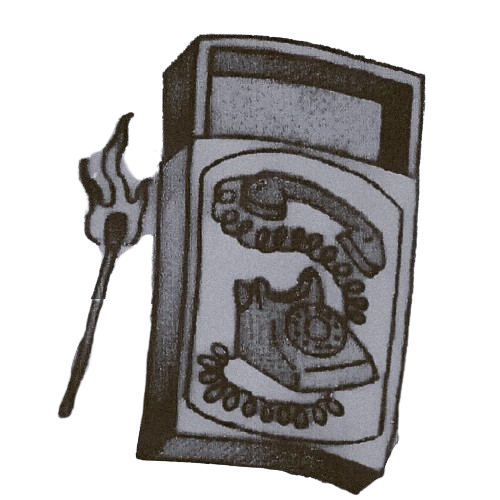
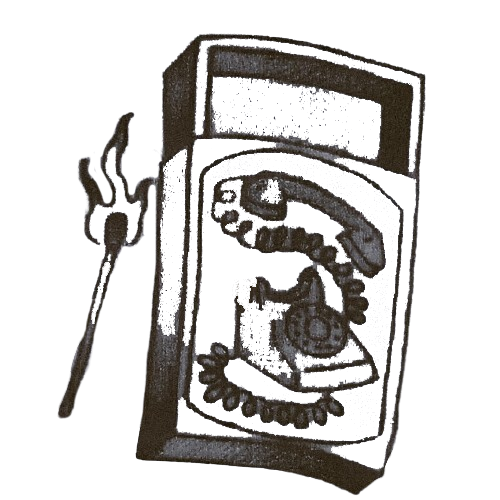
PP looks better on mobile. New inverted tattoo image

Changed region(s): [[0.18, 0.06, 0.84, 0.96], [0.63, 0.96, 0.66, 0.99], [0.57, 0.93, 0.6, 0.96]]

diff --git a/index.html b/index.html
@@ -42,7 +42,7 @@
                         <a href="#" target="_blank">Music</a>
                         <a href="#" target="_blank">Video</a>
                         <a href="javascript:;" onclick="togglePopup('fanclub-signup');" class="fanclub-button">
-                            <img class="lunatics" src="/images/fan-club.png" alt="Fan Club">
+                            <img class="lunatics fan-club" src="/images/fan-club.png" alt="Fan Club">
                         </a>
                     </div>
                 </nav>
@@ -77,7 +77,7 @@
             <div class="frame">
                 <form id="mc-embedded-subscribe-form" class="validate"
                     action="https://rareroomeast.us9.list-manage.com/subscribe/post-json?u=dc1ef2b26411dc4872ade1a16&amp;id=12eb6d76fb&amp;f_id=00f951e1f0">
-                    <img src="/images/fan-club.png" alt="Fan Club">
+                    <img src="/images/fan-club.png" alt="Fan Club" class='fan-club'>
                     <h2>Sign Up</h2>
                     <div class="form-group">
                         <label for="field_email_address" class="sr-only">Email Address</label>
@@ -118,6 +118,15 @@
                     </div>
                     <button type="submit" id="submit" name="subscribe" class="btn btn-default">SUBMIT</button>
                 </form>
+                <p id="mailchimp-logo" style="margin: 0px auto;">
+                    <a href="http://eepurl.com/jgy2Rs" title="Mailchimp - email marketing made easy and fun"><span
+                            style="display: inline-block; background-color: transparent; border-radius: 4px;"><img
+                                class="refferal_badge"
+                                src="https://digitalasset.intuit.com/render/content/dam/intuit/mc-fe/en_us/images/intuit-mc-rewards-text-dark.svg"
+                                alt="Intuit Mailchimp"
+                                style="width: 220px; height: 40px; display: flex; padding: 2px 0px; justify-content: center; align-items: center;"></span>
+                    </a>
+                </p>
                 <div id="thankyou">
                     <h2>Thanks for signing up!</h2>
                 </div>
@@ -125,7 +134,7 @@
         </div>
     </section>
     <div id="privacy-policy-div" class="black-overlay-page privacy-policy">
-        <button id="privacy-policy-x" class='x'><img src="/images/x.png" alt="Close Privacy Policy"></button>
+        <a id="privacy-policy-x" href="javascript:;" class="x">close [x]</a>
         <div>
             <section>
                 <h1>Information We Collect</h1>

diff --git a/styles/privacy-policy.css b/styles/privacy-policy.css
@@ -81,31 +81,28 @@ html:has(.black-overlay-page.active) {
   background-color: transparent;
   outline: none;
   border: none;
-  z-index: 1;}
-
-.black-overlay-page .x img {
-  width: 1.8em;
-  object-fit: cover;
+  z-index: 1;
 }
 
-.black-overlay-page .x img, #studio-div .carousel button img {
-  filter: invert(100%);
-  
-  transition: filter 250ms;
+#privacy-policy-div .x {
+  color: white;
+  text-decoration: none;
+  font-family: "Sedan_SC", serif;
+  font-size: 1.3em;
 }
 
-.black-overlay-page .x img:hover, #studio-div .carousel button img:hover {
-  filter: invert(80%);
+#privacy-policy-div .x:hover {
+  filter: brightness(0.8);
 }
 
 @media only screen and (max-width: 600px) {
   #privacy-policy-div > div {
-    --margin: 3rem;
+    --margin: 3em;
   }
   #privacy-policy-div h1 {
-    font-size: 1.25rem;
+    font-size: 1.25em;
   }
   #privacy-policy-div p {
-    font-size: 1rem;
+    font-size: 1em;
   }
 }

diff --git a/styles/index.css b/styles/index.css
@@ -139,6 +139,10 @@ body {
     height: 3.5rem;
 }
 
+img.fan-club {
+    filter: invert(1);
+}
+
 .bar1,
 .bar2,
 .bar3 {
@@ -352,12 +356,13 @@ body {
 }
 
 .popup .frame {
-    width: 100%;
     height: 100%;
     padding: 15px;
     display: block;
     overflow-y: auto;
     box-sizing: border-box;
+    margin: auto;
+    position: relative;
 }
 
 .popup h2 {
@@ -380,6 +385,20 @@ body {
 
 .popup .frame::-webkit-scrollbar-thumb:hover {
     background: #555;
+}
+
+#mailchimp-logo {
+    position: absolute;
+    bottom: 0;
+    right: 0.75rem;
+    filter: invert(1);
+    margin: 0 !important;
+    width: max-content;
+    object-fit: contain;
+}
+
+#mailchimp-logo img {
+    width: 3rem !important;
 }
 
 #footer {
